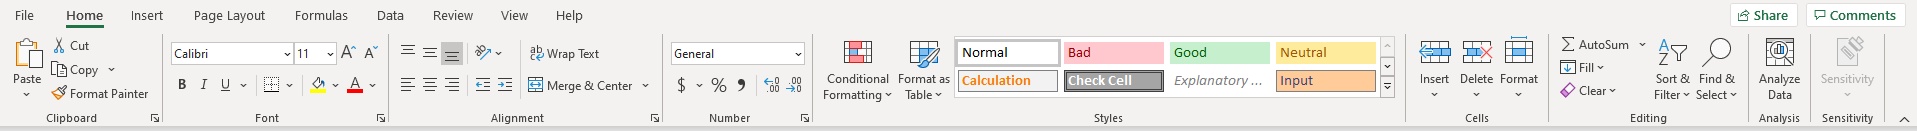
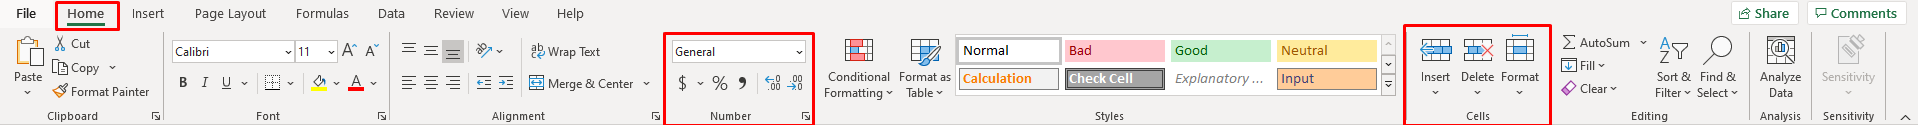
Adding more images

diff --git a/docs/navigating-excel.md b/docs/navigating-excel.md
@@ -20,7 +20,17 @@ This section will cover some of the basics like making insert a chart. We will e
 
 Before we jump into making our first table, chart, and start using functions, let us get familiar with the general layout of Excel and it's important buttons.
 
-Here ![Caution icon](https://github.com/dl90/linux-basics/blob/gh-pages/docs/images/icons/Excel-Toolbar.png?raw=true "Excel Toolbar")
+Here is Excel's toolbar. Currently we are in the <b> Home </b> tab. This is where can format our text and do some basic manipulation. 
+
+![Toolbar](https://github.com/nickluong-dev/Excel-Instruction-Guide/blob/gh-pages/assets/images/Excel-Toolbar.png?raw=true "Excel Toolbar")
+
+Notice the <b> Number </b> section of the toolbar. This is where you can format your data (eg. percentages, dollars, commas).
+
+![Numbers](https://github.com/nickluong-dev/Excel-Instruction-Guide/blob/gh-pages/assets/images/Numbers-Section.png?raw=true "Numbers Section")
+
+The <b>Cells</b> section allows you to add, delete, and format rows. For now, you will just be adding and deleting rows.
+
+![Cells](https://github.com/nickluong-dev/Excel-Instruction-Guide/blob/gh-pages/assets/images/Cells-Section.png?raw=true "Cells Section")
 
 ## Software Version
 ---
